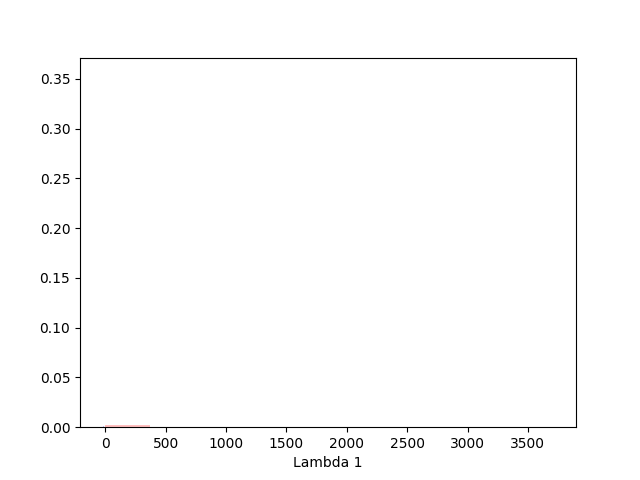
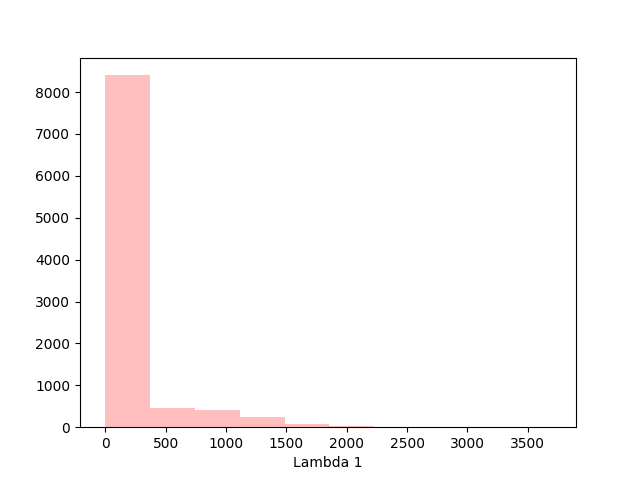
Method 1-2 lambda reflection test2

diff --git a/year3/lastStretch/lambdaReflectionStudy/reflectionTests.py b/year3/lastStretch/lambdaReflectionStudy/reflectionTests.py
@@ -27,8 +27,10 @@ new_margPostData = modsel.kde.resample(size=len(margPostData)).T
 resampledLambda1 = new_margPostData[:,1]
 
 plt.clf()
-plt.hist(lambda_1,density=True,color='red',alpha=0.25,label="lambda_1")
-plt.hist(resampledLambda1,density=True,color='blue',alpha=0.25,label="resampled")
+#plt.hist(lambda_1,density=True,color='red',alpha=0.25,label="lambda_1")
+#plt.hist(resampledLambda1,density=True,color='blue',alpha=0.25,label="resampled")
+plt.hist(lambda_1,color='red',alpha=0.25,label="lambda_1")
+plt.hist(resampledLambda1,color='blue',alpha=0.25,label="resampled")
 plt.xlabel("Lambda 1")
 plt.savefig("method12.png")
 # I think method 1 is already method 2 if kdedim=3. The only way to do method 1
